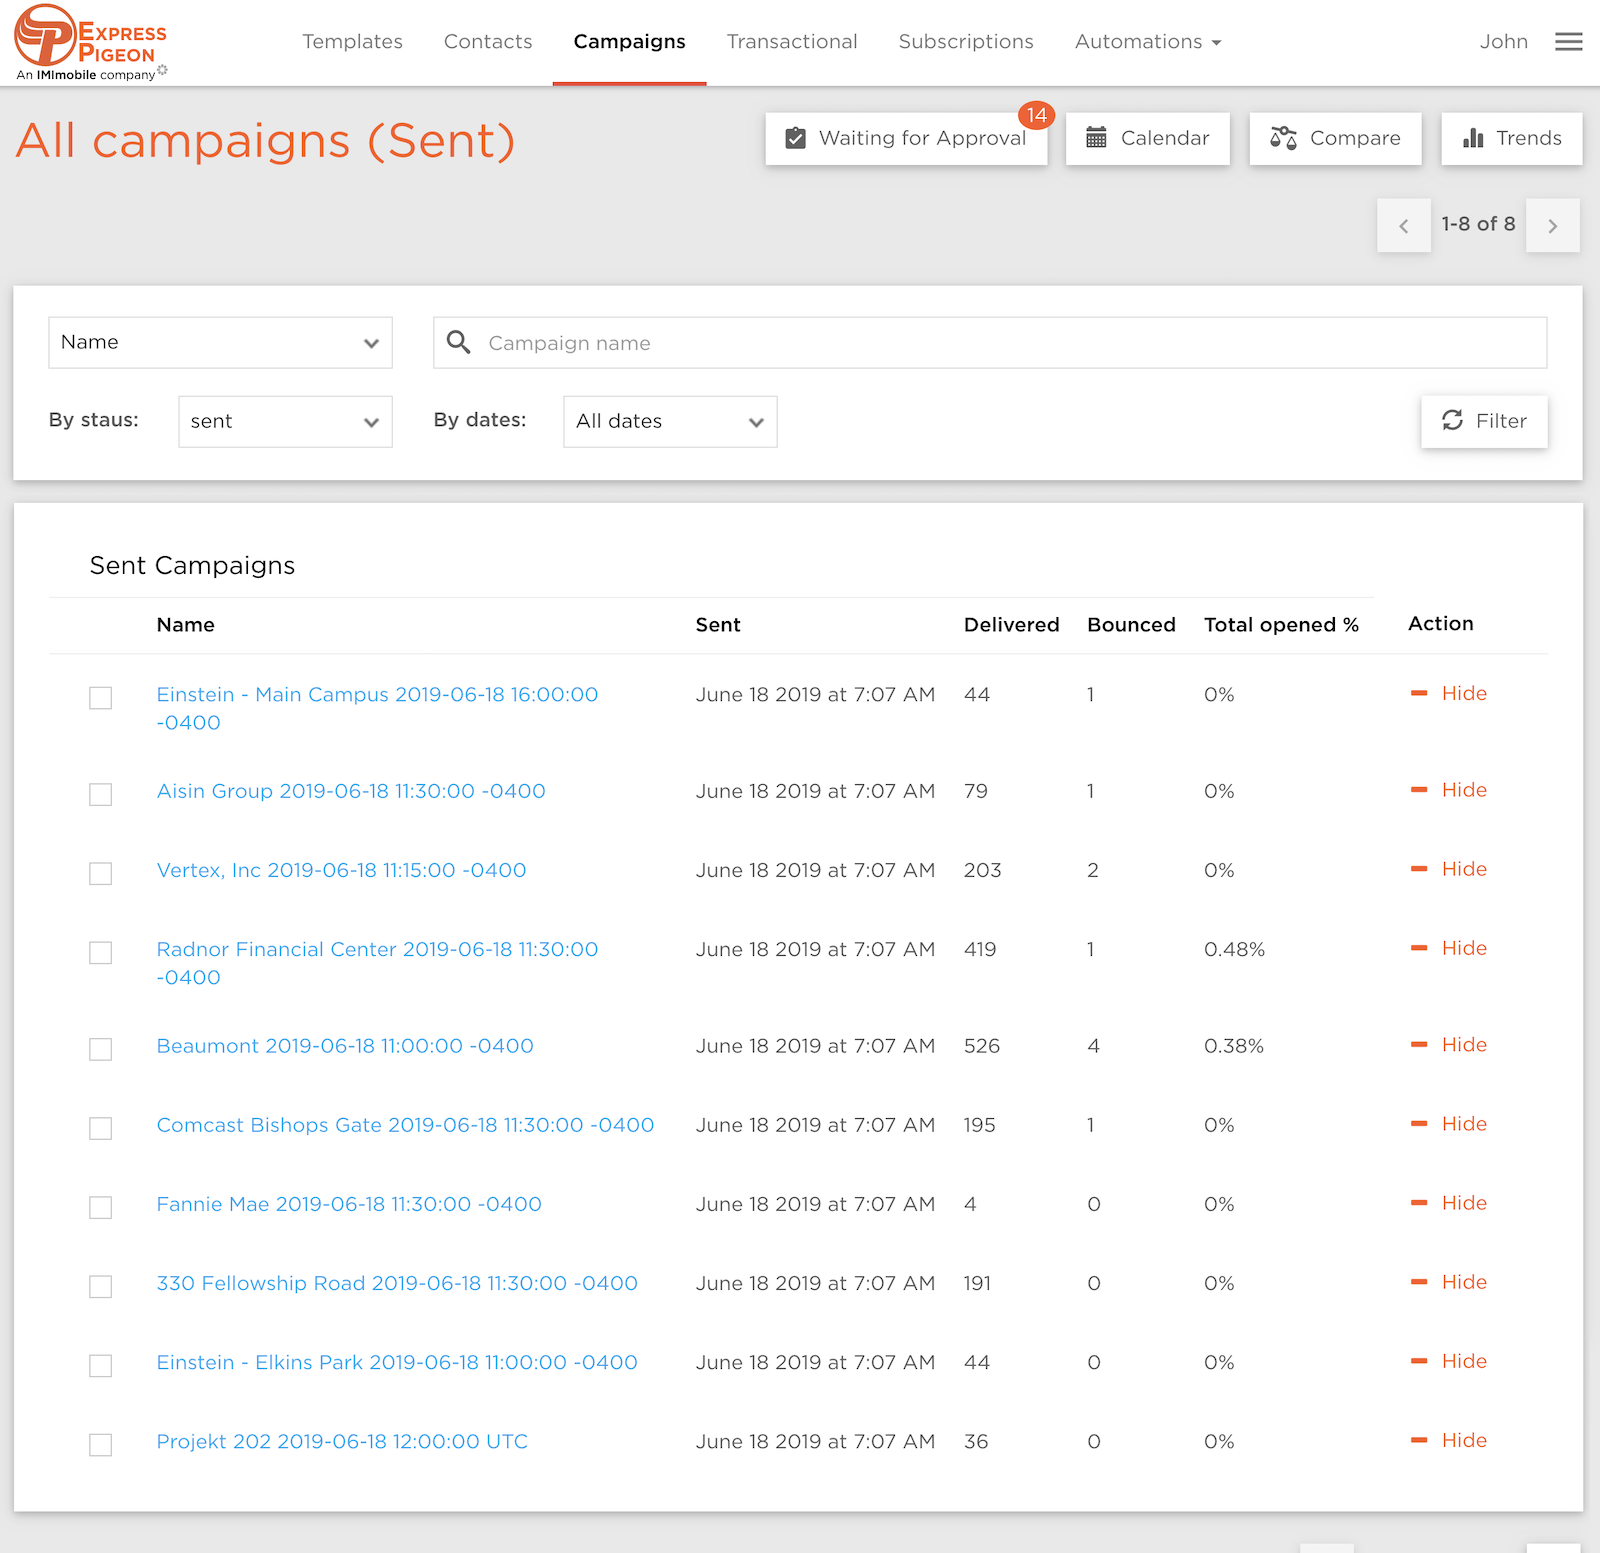
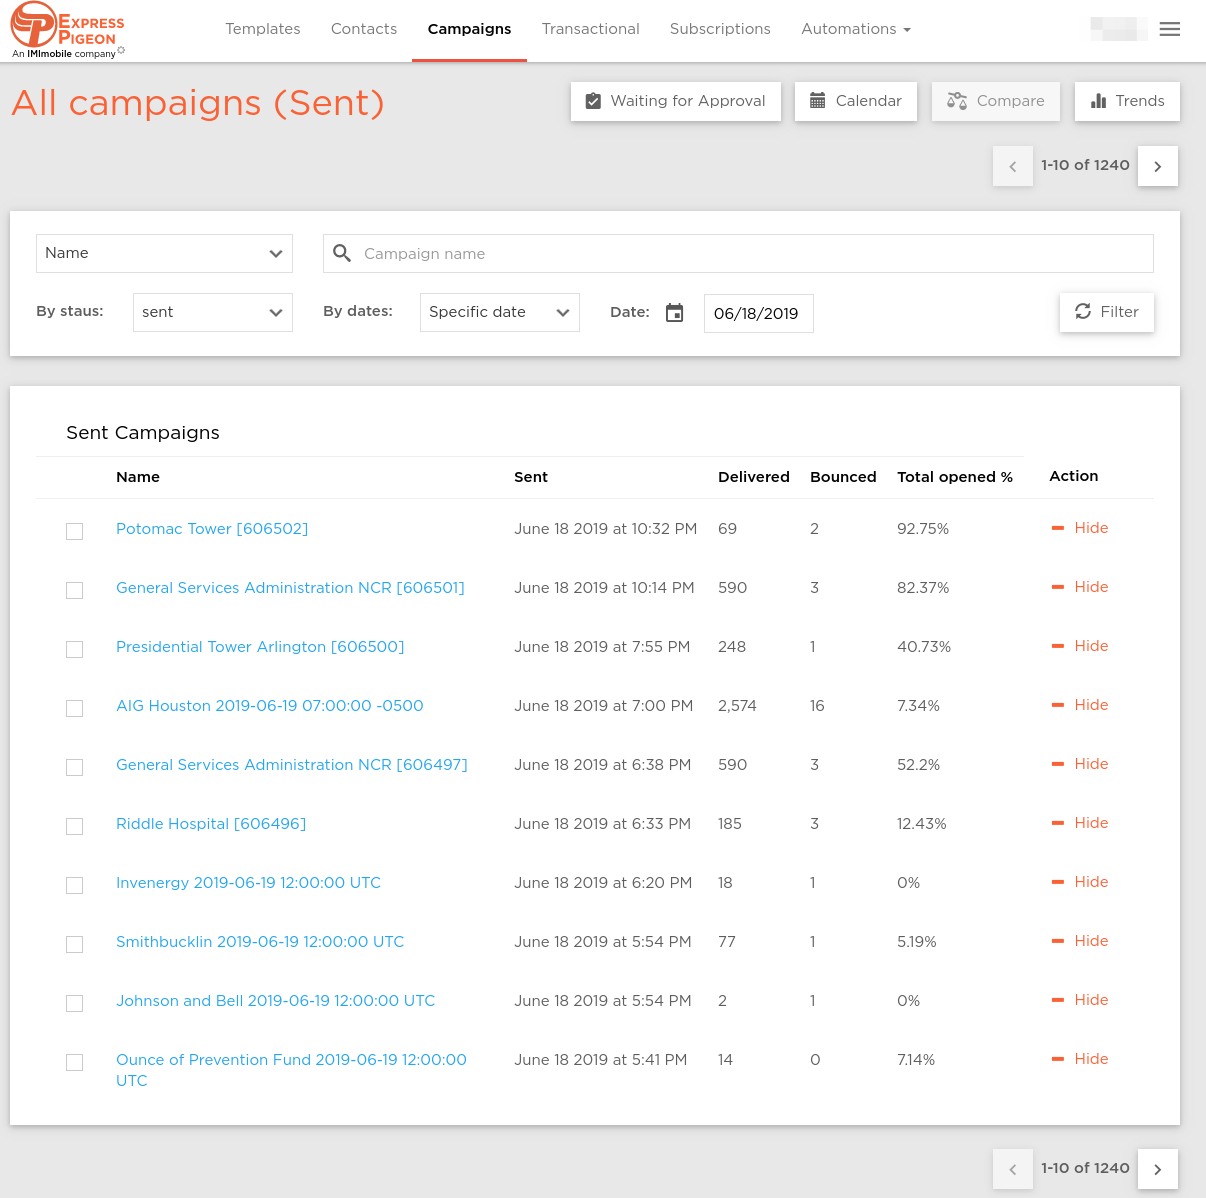
references #15155 Create KB articles for all new user facing features - campaign overview, search and tags

diff --git a/src/content/kb/index.html b/src/content/kb/index.html
@@ -87,7 +87,7 @@
         <ul class="row">
             <li class="col-xs-12 col-sm-4">
                 <div>
-                    <a title="Marketing Campaigns" class="btn btn-block waves-effect" href="/kb/marketing-campaigns"><i>1.</i> Marketing Campaigns<span class="zmdi zmdi-collection-text"></span></a>
+                    <a title="Marketing Campaigns" class="btn btn-block waves-effect" href="/kb/campaign-search"><i>1.</i>Campaign search<span class="zmdi zmdi-collection-text"></span></a>
                 </div>
                 <div>
                     <a title="Campaign Overview" class="btn btn-block waves-effect" href="/kb/campaign-overview"><i>2.</i> Campaign Overview<span class="zmdi zmdi-collection-text"></span></a>

diff --git a/src/content/kb/campaigns/campaign-overview.md b/src/content/kb/campaigns/campaign-overview.md
@@ -1,53 +1,80 @@
 # Campaign Overview
 
+Campaign Overview  is a main page  of any campaign reporting, 
+and includes all  of teh statistics, graphs and a geolocation map. 
+
+This page provides both, a high level as well as detailed view of a campaign.
+
+
 ## Overview
 
-Describe overview page:
-- view
-- sections
-- download pdf
+The main tab of hte campaign report area is the Overview. See an example below.   
 
-![](images/overview_1.png)
+![](images/campaigns/overview.png)
 
-![](images/overview_2.png)
+## Timing and devices
 
-![](images/overview_3.png)
+These graphs provide a visibility of audience interactions over time after a campaign was sent.
+The time graph is broken into 30 minute increments and spans 12 hours.  
+
+
+![](images/campaigns/time-devices.png)
+
+
+## Top 5
+
+The Top 5 section displays the most popular operating systems as well as domains. 
+Both metrics are based on the audience interactions, so you knew which ones are the most active. 
+
+![](images/campaigns/top5.png)
+
+## Geo Location Map
+
+Ge Location map allows to zoom in on a specific geographic zone and then select audience members 
+who happen to be in that zone when they opened this campaigns message. After that, you can: 
+
+* Add these contacts to a brand new list
+* Add these contacts to an existing list
+
+> We call this feature Geolocation/Engagement segmentation
+
+
+![](images/campaigns/geomap.gif)
 
 
 ## Properties
 
-![](images/cp_properties.png)
+The Properties  page of the campaign shows the subject, the sender information, when the campaign was sent, 
+the message that was sent. Other parameters might also display under specific conditions. 
+  
 
-## All Subscribers
+![](images/campaigns/properties.png)
 
-Describe what is this and that we can download CSV, see history of acvtions - in transit, opened, clicked etc.
+## Click Report
 
-![](images/cp_all_subs.png)
+The click report displays all link URLs that recorded any clicks and provides: 
 
-## Delivered
+* Total numbers
+* Unique numbers
+* Follow link
+* Selectors to include/exclude URLs from the search
 
-![](images/cp_delivered.png)
+The contacts that are displayed below can be acted upon if they are segmented into a new or existing list.
 
-## Opens
+If you want customers who clicked a specific list, adjust check boxes on the filter, press "Update" and use
+one of the buttons <Download>, <Add to existing(new) list> depending on your requirements. 
 
-![](images/cp_opens.png)
 
-## Clicks
+![](images/campaigns/clicks.png)
 
-![](images/cp_clicks.png)
+## Contact History
 
-## Bounces
+Whenever you are on any "list" page for a current campaign (such as Delivered, Opens, etc), by clicking on any 
+specific contact, you can see a complete history of that contact interacting with the current campaign.
 
-![](images/cp_bounces.png)
+You can also search for contacts in teh context of this campaign and navigate to history from the search results. 
+Use the Search tab on lower left of the campaign area. 
 
-## Unsubscribes
 
-![](images/cp_unsubs.png)
+![](images/campaigns/contact-history.png)
 
-## Non-opens
-
-![](images/cp_nonopen.png)
-
-##Complaints
-
-Add descirption what is this. Don't have screen now - need to find 

diff --git a/src/content/kb/editor/template-tags.md b/src/content/kb/editor/template-tags.md
@@ -1,25 +1,35 @@
 # Template Tags
 
-A tag is a keyword assigned to a template. This keyword helps describe template and allows it to be easily found later. You can use tags for categorizing templates.
+When you are overwhelmed with your templates and want to organize better, you can assign tags to templates. 
+Once you have done that,  you can search templates not only by names, but also by tags.  
 
-## Add Tag to the Template
 
-Add Description how to add Tags into the template 
+## Adding Tags to the Templates
+
+When a template is open in the editor, you can find a tagging component in the left lower corner of the page. 
+Just start typing your tag. If the tag exists, it will show up in the auto-suggest list. If it does not, somply press Enter, and a new tag 
+will be created on the fly.   
 
 ![](images/tags_system_1.png)
 
 
-## Search by Tag
+## Searching by Tags
+
+When you open a search widget, and want to search by tags in addition to a name, click the Advanced link: 
 
 ![](images/search_tag_1.png)
 
-Add description how users can search by tags
+This will open two search fields: by name, and  by tag. As you start typing tag names, 
+the system will auto-suggest existing tag names for your convenience.  
 
 ![](images/search_tag_2.png)
 
 
-## Manage Tags
+## Managing Tags
+
+Tags are stored on your account and can be managed in the "Settings" area. You can always access it by a direct link: 
+[Tags](/settings/tags). 
 
 ![](images/edit_tags.png)
 
-Write about managing tags page
+Use this page for edit or deleting of existing tags. Adding new tags can be done from within the editor, as described above.

diff --git a/src/content/kb/campaigns/campaign-search.md b/src/content/kb/campaigns/campaign-search.md
@@ -1,0 +1,17 @@
+# Campaign Search
+
+
+Within  our platform, a campaign is a report generated as a result  of sending a template to contacts. 
+It will include exhaustive information on all statistics, such as deliveries, opens, clicks, bounces and more. 
+ 
+
+
+## Listing latest campaigns
+
+In order to find campaigns, use the top menu option "Campaigns" to navigate to your latest campaigns.
+
+Use the filter at the top of the page to find specific campaign by name, date range or even specific date. 
+ 
+This page lists the latest batch of campaigns with campaign name, basic stats.
+    
+![](images/marketing_campaigns.png)

diff --git a/README.md b/README.md
@@ -14,11 +14,19 @@ When a local build is executed, the local content of these directories is replac
  
 > Building this module ensures that local environment always has the most up-to-date content.
 
-## Deployment 
+## Production/Test Deployment 
 
 Deployment of content to testenv and production is done with scripts located under `scripts` directory. 
 Execution of these scripts needs to be done at the module level: 
 
 ```
 ./scripts/publish.prod.sh
+```
+
+## Local Deployment
+
+Just execute a regular build script: 
+
+```
+mvn clean install
 ```
